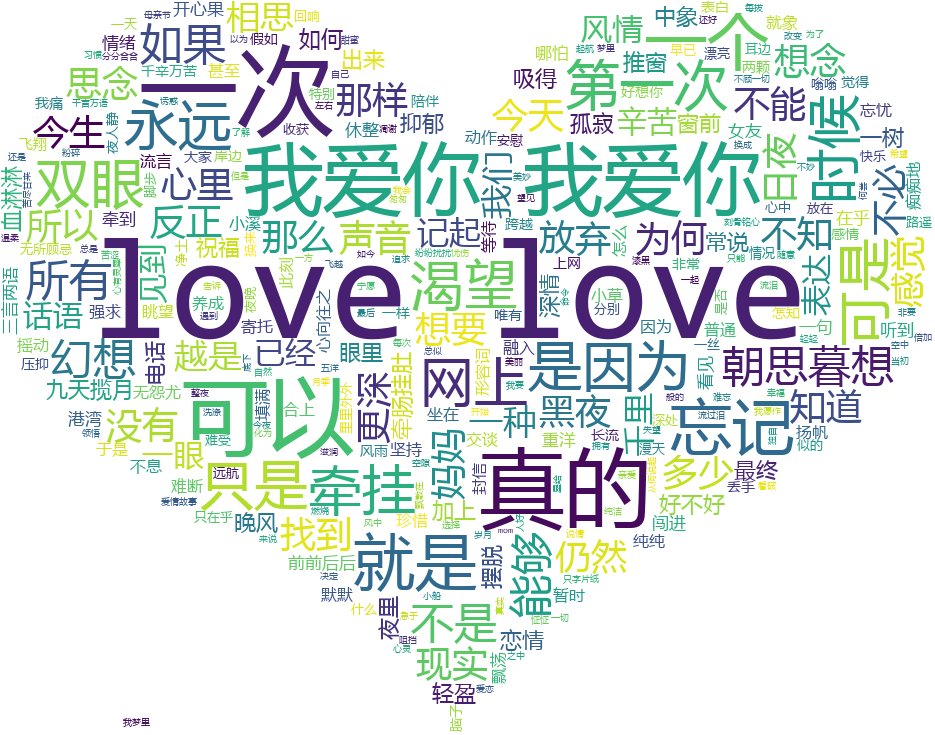
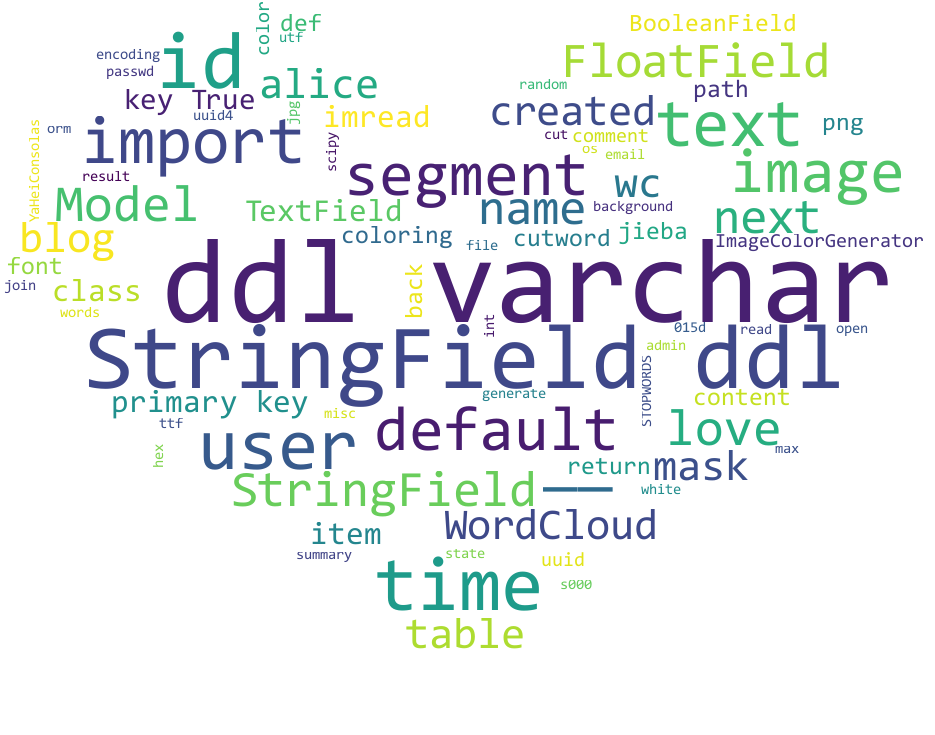
wc

diff --git a/wc/flask/templates/index.html b/wc/flask/templates/index.html
@@ -10,12 +10,12 @@
 	<img class="img-responsive center-block" src="{{ url_for('static', filename='result.png') }}">
 </div>
 
-<form>
+<form method="post" action="{{ url_for('main.addtext') }}">
 	<div class="form-group">
 		<label>input:</label>
-		<textarea class="form-control" rows="3" placeholder="input what you want to say"></textarea>
+		<textarea class="form-control" name="text" rows="3" placeholder="input what you want to say"></textarea>
 	</div>
-	<input class="btn btn-default" type="submit" value="Submit">
+		<input class="btn btn-default" type="submit" value="Submit">
 </form>
 
 {% endblock %}

diff --git a/wc/flask/templates/404.html b/wc/flask/templates/404.html
@@ -1,0 +1,9 @@
+{% extends "base.html" %}
+
+{% block title %}WordCloud - Page Not Found{% endblock %}
+
+{% block content %}
+<div class="page-header">
+	<h1>Not Found</h1>
+</div>
+{% endblock %}

diff --git a/wc/flask/wordcloud/gen.py b/wc/flask/wordcloud/gen.py
@@ -9,15 +9,15 @@ def cutword(text):
 	segment = r' '.join(segment)
 	return segment
 
-text = open('text', encoding='utf-8').read()
+text = open('wordcloud/text', encoding='utf-8').read()
 
 text = cutword(text)
 
-back_mask = imread('image/love.jpg')
-alice_coloring = imread('image/alice.png')
+back_mask = imread('wordcloud/image/love.jpg')
+alice_coloring = imread('wordcloud/image/alice.png')
 image_colors = ImageColorGenerator(alice_coloring)
 
-wc = WordCloud(	font_path='font/YaHeiConsolas.ttf',
+wc = WordCloud(	font_path='wordcloud/font/YaHeiConsolas.ttf',
 				background_color='white',
 				max_words=2000,
 				mask=back_mask,
@@ -26,4 +26,4 @@ wc = WordCloud(	font_path='font/YaHeiConsolas.ttf',
 
 wc.generate(text)
 
-wc.to_file("result.png")
+wc.to_file("static/result.png")

diff --git a/wc/flask/main/apis.py b/wc/flask/main/apis.py
@@ -1,0 +1,19 @@
+from . import main
+from flask import render_template, url_for, request
+import os
+import json
+import subprocess
+
+@main.route('/api/addtext', methods=['GET', 'POST'])
+def addtext():
+	if request.method == 'GET':
+		return render_template('404.html'), 404
+	else:
+		text = request.form['text']
+		with open('wordcloud/text', 'a') as f:
+			f.write('\n'+text)
+		child = subprocess.Popen(['python3', 'wordcloud/gen.py'])
+		child.wait()
+		
+		return render_template('index.html')
+

diff --git a/wc/flask/main/views.py b/wc/flask/main/views.py
@@ -1,6 +1,10 @@
 from . import main
-from flask import render_template
+from flask import render_template, url_for
 import os
+
+@main.errorhandler(404)
+def no_such_process(e):
+	return render_template('404.html'), 404
 
 @main.route('/')
 def index():
